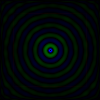
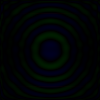
verified M,J,L,N on cartesian, spherical TODO : use legacy summation check Efar formula (signs?)

diff --git a/excFDTD/excFDTD.c b/excFDTD/excFDTD.c
@@ -524,17 +524,15 @@ void NTFF(void) {
 	
 	int surf_x, surf_y, surf_z;
 	float k_vector;
-	float *NF_eyePos, *xyz_to_sph, *Hankel_rho_inv_dx, *FF_ecSr_magnitude;
+	float *NF_eyePos, *xyz_to_sph,  *FF_ecSr_magnitude;
 	MKL_Complex8 *Hankel_dx, *NF_ecE, *NF_H, *NF_ecM, *NF_J, *normal, *NF_ecM_sph, *NF_J_sph,
 		*NF_ecL_sph_dx, *NF_N_sph_dx, *NF_ecM_temp, *NF_J_temp,
 		*FF_ecE_theta, *FF_ecE_phi, *FF_H_theta, *FF_H_phi, *FF_ecSr1, *FF_ecSr2, *FF_ecSr;
 	MKL_Complex8 *NF_ecL_sum, *NF_N_sum; //[0]:r [1]:theta [2]:phi
-	//MKL_Complex8 *NF_111_X_ecE, *NF_111_X_H;
-	//THIS IS WRONG
 
 	NF_eyePos = (float*)malloc(NTFF_IMG_SIZE*NTFF_IMG_SIZE * 3 * sizeof(float));
 	xyz_to_sph = (float*)malloc(_SURF_SIZE_ * 9 * sizeof(float));
-	Hankel_rho_inv_dx = (float*)mkl_malloc(_SURF_SIZE_ * sizeof(float), 64);
+	//rho_inv_dx = (float*)mkl_malloc(_SURF_SIZE_ * sizeof(float), 64);
 	Hankel_dx = (MKL_Complex8*)mkl_malloc(_SURF_SIZE_ * sizeof(MKL_Complex8), 64);
 	NF_ecE = (MKL_Complex8*)mkl_malloc(3 * _SURF_SIZE_ * sizeof(MKL_Complex8), 64);
 	NF_H = (MKL_Complex8*)mkl_malloc(3 * _SURF_SIZE_ * sizeof(MKL_Complex8), 64);
@@ -572,7 +570,7 @@ void NTFF(void) {
 				NF_eyePos[1 * NTFF_IMG_SIZE *NTFF_IMG_SIZE + j*NTFF_IMG_SIZE + i] = 1.0f;
 				NF_eyePos[2 * NTFF_IMG_SIZE *NTFF_IMG_SIZE + j*NTFF_IMG_SIZE + i] = 1.0f;
 				continue; }
-			float NF_phi = (radius - rr) * 0.5 * M_PI / radius;
+			float NF_phi = (radius - rr) * 0.5f * M_PI / radius;
 			NF_eyePos[0 * NTFF_IMG_SIZE *NTFF_IMG_SIZE + j*NTFF_IMG_SIZE + i] = cosf(NF_phi) * xx / rr;
 			NF_eyePos[1 * NTFF_IMG_SIZE *NTFF_IMG_SIZE + j*NTFF_IMG_SIZE + i] = cosf(NF_phi) * yy / rr;    
 			NF_eyePos[2 * NTFF_IMG_SIZE *NTFF_IMG_SIZE + j*NTFF_IMG_SIZE + i] = sinf(NF_phi);
@@ -583,30 +581,25 @@ void NTFF(void) {
 	// precalculation per pixel
 	for (int k = 0; k < _SURF_SIZE_; k++) {
 		_SET_SURF_XYZ_INDEX(k);
-		Hankel_rho_inv_dx[k] = 1.0f / sqrtf(
+		float rho_inv_dx = 1.0f / sqrtf(
 			(float)(surf_x - _SURF_MidX_) * (float)(surf_x - _SURF_MidX_)
 			+ (float)(surf_y - _SURF_MidY_) * (float)(surf_y - _SURF_MidY_)
 			+ (float)(surf_z - _SURF_MidZ_) * (float)(surf_z - _SURF_MidZ_)); //shouldn't slow down much
-	}
-
-	for (int k = 0; k < _SURF_SIZE_; k++) {
-		_SET_SURF_XYZ_INDEX(k);
 		float radial_inv = 1.0f / sqrtf((surf_x - _SURF_MidX_)*(surf_x - _SURF_MidX_) + (surf_y - _SURF_MidY_)*(surf_y - _SURF_MidY_));
-//		if (((surf_x - _SURF_MidX_)*(surf_x - _SURF_MidX_) + (surf_y - _SURF_MidY_)*(surf_y - _SURF_MidY_)) == 1) {
 		if (((surf_x - _SURF_MidX_)*(surf_x - _SURF_MidX_) + (surf_y - _SURF_MidY_)*(surf_y - _SURF_MidY_)) == 0) {
 			for (int kk = 0; kk < 9; kk++) { xyz_to_sph[9 * k + kk] = 0; }
 			xyz_to_sph[9 * k + 2] = 1;
 			continue;
 		}
-		xyz_to_sph[9*k + 0] = Hankel_rho_inv_dx[k] * (float)(surf_x - _SURF_MidX_);
-		xyz_to_sph[9*k + 1] = Hankel_rho_inv_dx[k] * (float)(surf_y - _SURF_MidY_);
-		xyz_to_sph[9*k + 2] = Hankel_rho_inv_dx[k] * (float)(surf_z - _SURF_MidZ_);
+		xyz_to_sph[9*k + 0] = rho_inv_dx * (float)(surf_x - _SURF_MidX_);
+		xyz_to_sph[9*k + 1] = rho_inv_dx * (float)(surf_y - _SURF_MidY_);
+		xyz_to_sph[9*k + 2] = rho_inv_dx * (float)(surf_z - _SURF_MidZ_);
 		xyz_to_sph[9*k + 3] = -(float)(surf_y - _SURF_MidY_) * radial_inv;
 		xyz_to_sph[9*k + 4] = (float)(surf_x - _SURF_MidX_) * radial_inv;
 		xyz_to_sph[9*k + 5] = 0;
-		xyz_to_sph[9*k + 6] = -Hankel_rho_inv_dx[k] * radial_inv * (float)(surf_z - _SURF_MidZ_) * (float)(surf_x - _SURF_MidX_);
-		xyz_to_sph[9*k + 7] = -Hankel_rho_inv_dx[k] * radial_inv * (float)(surf_z - _SURF_MidZ_) * (float)(surf_y - _SURF_MidY_);
-		xyz_to_sph[9*k + 8] = Hankel_rho_inv_dx[k] / radial_inv;
+		xyz_to_sph[9*k + 6] = -rho_inv_dx * radial_inv * (float)(surf_z - _SURF_MidZ_) * (float)(surf_x - _SURF_MidX_);
+		xyz_to_sph[9*k + 7] = -rho_inv_dx * radial_inv * (float)(surf_z - _SURF_MidZ_) * (float)(surf_y - _SURF_MidY_);
+		xyz_to_sph[9*k + 8] = rho_inv_dx / radial_inv;
 	}
 
 
@@ -700,9 +693,8 @@ void NTFF(void) {
 					+ xyz_to_sph[9 * k + 3 * i + 2] * NF_J[2 * _SURF_SIZE_ + k].imag;
 			}
 		}
-		//debug
-		//for (int i = 0; i < 2; i++) {
-		//	for (int j = 0; j < NTFF_IMG_SIZE; j++) {
+
+		printf("\n");
 		for (int i = 0; i < NTFF_IMG_SIZE; i++) {
 			printf("%f%%\r", 100.0f*(float)i / NTFF_IMG_SIZE);
 			for (int j = 0; j < NTFF_IMG_SIZE; j++) {
@@ -716,43 +708,51 @@ void NTFF(void) {
 					////Hankel calc, FIXME : Need to verify this part
 					Hankel_dx[k].real = 0;
 					Hankel_dx[k].imag = k_vector * _dx *(
-						((float)(surf_x - _SURF_MidX_))*(NF_eyePos[0 * NTFF_IMG_SIZE *NTFF_IMG_SIZE + j*NTFF_IMG_SIZE + i])
-						+ ((float)(surf_y - _SURF_MidY_))*(NF_eyePos[1 * NTFF_IMG_SIZE *NTFF_IMG_SIZE + j*NTFF_IMG_SIZE + i])
-						+ ((float)(surf_z - _SURF_MidZ_))*(NF_eyePos[2 * NTFF_IMG_SIZE *NTFF_IMG_SIZE + j*NTFF_IMG_SIZE + i])
-						); //constant phase difference could be ignored. could be accererated more					
+						  ((float)surf_x - (_SURF_MidX_))*(NF_eyePos[0 * NTFF_IMG_SIZE *NTFF_IMG_SIZE + j*NTFF_IMG_SIZE + i])
+						+ ((float)surf_y - (_SURF_MidY_))*(NF_eyePos[1 * NTFF_IMG_SIZE *NTFF_IMG_SIZE + j*NTFF_IMG_SIZE + i])
+						+ ((float)surf_z - (_SURF_MidZ_))*(NF_eyePos[2 * NTFF_IMG_SIZE *NTFF_IMG_SIZE + j*NTFF_IMG_SIZE + i])
+						); //constant phase difference was ignored. could be accererated more					
 				}
 				vcExp(_SURF_SIZE_, Hankel_dx, Hankel_dx); //complex exp
-				ippsMul_32f32fc_I(Hankel_rho_inv_dx, Hankel_dx, _SURF_SIZE_);
+				//ippsMul_32f32fc_I(Hankel_rho_inv_dx, Hankel_dx, _SURF_SIZE_); //wrong
 
 				////L N clac : we don't need Lr, Nr but anyway
 				for (int ii = 0; ii < 3; ii++) { // R theta phi
 					vcMul(_SURF_SIZE_, Hankel_dx, NF_ecM_sph + ii * _SURF_SIZE_, NF_ecL_sph_dx + ii * _SURF_SIZE_);
 					vcMul(_SURF_SIZE_, Hankel_dx, NF_J_sph + ii * _SURF_SIZE_, NF_N_sph_dx + ii * _SURF_SIZE_);
 
-					ippsSum_32fc(NF_ecL_sph_dx + ii * _SURF_SIZE_, _SURF_SIZE_, NF_ecL_sum + ii, IPP_FFT_NODIV_BY_ANY); //FIXME : IPP_FFT_DIV_BY_SQRTN?
-					ippsSum_32fc(NF_N_sph_dx + ii * _SURF_SIZE_, _SURF_SIZE_, NF_N_sum + ii, IPP_FFT_NODIV_BY_ANY);
+					ippsSum_32fc(NF_ecL_sph_dx + ii * _SURF_SIZE_, _SURF_SIZE_, NF_ecL_sum + ii, IPP_FFT_DIV_BY_SQRTN); //FIXME : IPP_FFT_NODIV_BY_ANY?
+					ippsSum_32fc(NF_N_sph_dx + ii * _SURF_SIZE_, _SURF_SIZE_, NF_N_sum + ii, IPP_FFT_DIV_BY_SQRTN);
 
 					//FIXME : image center NaN
 					if (isfinite(NF_ecL_sum[ii].real) == 0) { printf("Ea : %d,%d\n", i, j); }
 					if (isfinite(NF_ecL_sum[ii].imag) == 0) { printf("Eb : %d,%d\n", i, j); }
 					if (isfinite(NF_N_sum[ii].real) == 0) { printf("Ec : %d,%d\n", i, j); }
 					if (isfinite(NF_N_sum[ii].imag) == 0) { printf("Ed : %d,%d\n", i, j); }
-				}//could use in in_place functions, such as ippsMul_32fc_I
+				}
 
 				//ch14, (14.54)  (double check signs of M and J!)
-				//[0]:r [1]:theta [2]:phi
-				ippsAdd_32fc(NF_N_sum + 1, NF_ecL_sum + 2, FF_ecE_theta + j + i*NTFF_IMG_SIZE, 1);
-				ippsSub_32fc(NF_ecL_sum + 1, NF_N_sum + 2, FF_ecE_phi + j + i*NTFF_IMG_SIZE, 1); 
-				ippsSub_32fc(NF_N_sum + 2, NF_ecL_sum + 1, FF_H_theta + j + i*NTFF_IMG_SIZE, 1);
-				ippsAdd_32fc(NF_ecL_sum + 2, NF_N_sum + 1, FF_H_phi + j + i*NTFF_IMG_SIZE, 1); 
+				////[0]:r [1]:theta [2]:phi
+				//ippsAdd_32fc(NF_N_sum + 1, NF_ecL_sum + 2, FF_ecE_theta + i + j*NTFF_IMG_SIZE, 1);
+				//ippsSub_32fc(NF_ecL_sum + 1, NF_N_sum + 2, FF_ecE_phi + i + j*NTFF_IMG_SIZE, 1); 
+				//ippsSub_32fc(NF_N_sum + 2, NF_ecL_sum + 1, FF_H_theta + i + j*NTFF_IMG_SIZE, 1);
+				//ippsAdd_32fc(NF_ecL_sum + 2, NF_N_sum + 1, FF_H_phi + i + j*NTFF_IMG_SIZE, 1); 
+
+				FF_ecE_theta[i + j*NTFF_IMG_SIZE].real = NF_N_sum[1].real +NF_ecL_sum[2].real;
+				FF_ecE_phi[i + j*NTFF_IMG_SIZE].real = NF_N_sum[2].real - NF_ecL_sum[1].real;
+				FF_H_theta[i + j*NTFF_IMG_SIZE].real = NF_ecL_sum[1].real - NF_N_sum[2].real;
+				FF_H_phi[i + j*NTFF_IMG_SIZE].real = NF_ecL_sum[2].real + NF_N_sum[1].real;
+				FF_ecE_theta[i + j*NTFF_IMG_SIZE].imag = NF_N_sum[1].imag +NF_ecL_sum[2].imag;
+				FF_ecE_phi[i + j*NTFF_IMG_SIZE].imag = NF_N_sum[2].imag - NF_ecL_sum[1].imag;
+				FF_H_theta[i + j*NTFF_IMG_SIZE].imag = NF_ecL_sum[1].imag - NF_N_sum[2].imag;
+				FF_H_phi[i + j*NTFF_IMG_SIZE].imag = NF_ecL_sum[2].imag + NF_N_sum[1].imag;
 			}
 		}
-		if (1 == 0){
 		ippsMulC_32fc_I((Ipp32fc) { sqrtf(0.125f / M_PI * k_vector), 0.0f }, FF_ecE_theta, NTFF_IMG_SIZE*NTFF_IMG_SIZE);
 		ippsMulC_32fc_I((Ipp32fc) { sqrtf(0.125f / M_PI * k_vector), 0.0f }, FF_ecE_phi, NTFF_IMG_SIZE*NTFF_IMG_SIZE);
 		ippsMulC_32fc_I((Ipp32fc) { sqrtf(0.125f / M_PI * k_vector), 0.0f }, FF_H_theta, NTFF_IMG_SIZE*NTFF_IMG_SIZE);
 		ippsMulC_32fc_I((Ipp32fc) { sqrtf(0.125f / M_PI * k_vector), 0.0f }, FF_H_phi, NTFF_IMG_SIZE*NTFF_IMG_SIZE);
-		}
+
 		ippsMul_32fc(FF_ecE_theta, FF_H_phi, FF_ecSr1, NTFF_IMG_SIZE*NTFF_IMG_SIZE);
 		ippsMul_32fc(FF_ecE_phi, FF_H_theta, FF_ecSr2, NTFF_IMG_SIZE*NTFF_IMG_SIZE);
 		//ippsAdd_32fc(FF_ecSr1, FF_ecSr2, FF_ecSr, NTFF_IMG_SIZE*NTFF_IMG_SIZE); // FIXME : check sign : add? sub?
@@ -764,35 +764,60 @@ void NTFF(void) {
 		//debug
 		filename[3] = 'a';
 		for (int i = 0; i < NTFF_IMG_SIZE; i++)	{		for (int j = 0; j < NTFF_IMG_SIZE; j++) {
-			//float val = NF_eyePos[1 * NTFF_IMG_SIZE *NTFF_IMG_SIZE + i*NTFF_IMG_SIZE + j] * 255;
-			//float val = FF_ecE_theta[i*NTFF_IMG_SIZE + j].real * 255.0f * 10.0f;
-			//float val = FF_H_theta[i*NTFF_IMG_SIZE + j].real *255.0f * 10.0f;
-			//float val = FF_ecE_phi[i*NTFF_IMG_SIZE + j].real * 255.0f * 10.0f;
-			//float val = FF_H_phi[i*NTFF_IMG_SIZE + j].real * 255.0f * 10.0f;  
-			//float val = FF_ecSr[i*NTFF_IMG_SIZE + j].real * 255.0f * 500.0f;
-			float val = FF_ecSr_magnitude[i*NTFF_IMG_SIZE + j] * 255.0f * 500.0f;
+			//float val = NF_eyePos[2 * NTFF_IMG_SIZE *NTFF_IMG_SIZE + j*NTFF_IMG_SIZE + i] * 255;
+			float val = sqrtf(FF_ecE_theta[j*NTFF_IMG_SIZE + i].real *  FF_ecE_theta[j*NTFF_IMG_SIZE + i].real +  FF_ecE_theta[j*NTFF_IMG_SIZE + i].imag *  FF_ecE_theta[j*NTFF_IMG_SIZE + i].imag) * 255.0f / 1000.0f;
+			//float val = sqrtf(FF_ecE_phi[j*NTFF_IMG_SIZE + i].real * FF_ecE_phi[j*NTFF_IMG_SIZE + i].real + FF_ecE_phi[j*NTFF_IMG_SIZE + i].imag * FF_ecE_phi[j*NTFF_IMG_SIZE + i].imag) * 255.0f / 2.0f;
+			//float val = FF_H_theta[j*NTFF_IMG_SIZE + i].real *255.0f * 500.0f;
+			//float val = FF_H_phi[j*NTFF_IMG_SIZE + i].real * 255.0f * 10.0f;  
+			//float val = FF_ecSr[j*NTFF_IMG_SIZE + i].real * 255.0f * 500.0f;
+			//float val = FF_ecSr1[j*NTFF_IMG_SIZE + i].real * 255.0f * 500.0f * 500.0f;
+			//float val = FF_ecSr2[j*NTFF_IMG_SIZE + i].real * 255.0f * 500.0f * 500.0f;
+			//float val = FF_ecSr_magnitude[j*NTFF_IMG_SIZE + i] * 255.0f * 500.0f;
 			
-				image[4 * NTFF_IMG_SIZE * j + 4 * i + 0] = val>0?val:0 ;
-				image[4 * NTFF_IMG_SIZE * j + 4 * i + 1] = val<0?-val:0 ;
+				image[4 * NTFF_IMG_SIZE * j + 4 * i + 0] = val>0?(val<255?val:255):0 ;
+				image[4 * NTFF_IMG_SIZE * j + 4 * i + 1] = val<0?(val>-255?-val:255):0 ;
 				image[4 * NTFF_IMG_SIZE * j + 4 * i + 2] = 0;
 				image[4 * NTFF_IMG_SIZE * j + 4 * i + 3] = 255;
-				printf("%1.2e\t", val);
+				//printf("%1.2e\t", val);
 		}
-		printf("\n");
+		//printf("\n");
 		}
 		error = lodepng_encode32_file(filename, image, NTFF_IMG_SIZE, NTFF_IMG_SIZE);
-		if (error) printf("error %u: %s\n", error, lodepng_error_text(error));;
+		if (error) printf("error %u: %s\n", error, lodepng_error_text(error));
+
+
+		for (int i = 0; i < NTFF_IMG_SIZE; i++) {		for (int j = 0; j < NTFF_IMG_SIZE; j++) {
+			float val = sqrtf(FF_ecE_theta[j*NTFF_IMG_SIZE + i].real *  FF_ecE_theta[j*NTFF_IMG_SIZE + i].real + FF_ecE_theta[j*NTFF_IMG_SIZE + i].imag *  FF_ecE_theta[j*NTFF_IMG_SIZE + i].imag) * 255.0f / 1000.0f;
+			image[4 * NTFF_IMG_SIZE * j + 4 * i + 0] = val > 0 ? (val < 255 ? val : 255) : 0;		image[4 * NTFF_IMG_SIZE * j + 4 * i + 1] = val < 0 ? (val > -255 ? -val : 255) : 0;		image[4 * NTFF_IMG_SIZE * j + 4 * i + 2] = 0;  image[4 * NTFF_IMG_SIZE * j + 4 * i + 3] = 255;
+		}}error = lodepng_encode32_file("E_theta.png", image, NTFF_IMG_SIZE, NTFF_IMG_SIZE);
+		for (int i = 0; i < NTFF_IMG_SIZE; i++) {		for (int j = 0; j < NTFF_IMG_SIZE; j++) {
+			float val = sqrtf(FF_ecE_phi[j*NTFF_IMG_SIZE + i].real * FF_ecE_phi[j*NTFF_IMG_SIZE + i].real + FF_ecE_phi[j*NTFF_IMG_SIZE + i].imag * FF_ecE_phi[j*NTFF_IMG_SIZE + i].imag) * 255.0f / 1000.0f;
+			image[4 * NTFF_IMG_SIZE * j + 4 * i + 0] = val > 0 ? (val < 255 ? val : 255) : 0;		image[4 * NTFF_IMG_SIZE * j + 4 * i + 1] = val < 0 ? (val > -255 ? -val : 255) : 0;		image[4 * NTFF_IMG_SIZE * j + 4 * i + 2] = 0;  image[4 * NTFF_IMG_SIZE * j + 4 * i + 3] = 255;
+		}}error = lodepng_encode32_file("E_phi.png", image, NTFF_IMG_SIZE, NTFF_IMG_SIZE);
+		for (int i = 0; i < NTFF_IMG_SIZE; i++) {		for (int j = 0; j < NTFF_IMG_SIZE; j++) {
+			float val = 
+				sqrtf(FF_ecE_theta[j*NTFF_IMG_SIZE + i].real *  FF_ecE_theta[j*NTFF_IMG_SIZE + i].real + FF_ecE_theta[j*NTFF_IMG_SIZE + i].imag *  FF_ecE_theta[j*NTFF_IMG_SIZE + i].imag) * 255.0f / 1000.0f
+			+sqrtf(FF_ecE_phi[j*NTFF_IMG_SIZE + i].real * FF_ecE_phi[j*NTFF_IMG_SIZE + i].real + FF_ecE_phi[j*NTFF_IMG_SIZE + i].imag * FF_ecE_phi[j*NTFF_IMG_SIZE + i].imag) * 255.0f / 1000.0f;
+			image[4 * NTFF_IMG_SIZE * j + 4 * i + 0] = val > 0 ? (val < 255 ? val : 255) : 0;		image[4 * NTFF_IMG_SIZE * j + 4 * i + 1] = val < 0 ? (val > -255 ? -val : 255) : 0;		image[4 * NTFF_IMG_SIZE * j + 4 * i + 2] = 0;  image[4 * NTFF_IMG_SIZE * j + 4 * i + 3] = 255;
+		}}error = lodepng_encode32_file("E.png", image, NTFF_IMG_SIZE, NTFF_IMG_SIZE);
 
 
 		unsigned char* image2 = malloc(_SURF_DX_ * _SURF_DY_ * 4);
 		filename[3] = 'b';
 		for (int j = 0; j < _SURF_DY_ ; j++)	{
 			for (int i = 0; i < _SURF_DX_ ; i++) {
-				//float val = Hankel_rho_inv[_SURF_INDEX_XYZ(_SURF_StartX_+ i, _SURF_StartY_+j, _SURF_StartZ_)] *255.0f * 5.0f ;
+				////float val = rho_inv_dx[_SURF_INDEX_XYZ(_SURF_StartX_ + i, _SURF_StartY_ + j, _SURF_StartZ_)] *255.0f * 20.0f;
 				//float val = normal[_SURF_SIZE_ * 1 + _SURF_INDEX_XYZ(_SURF_StartX_+ i, _SURF_StartY_+j, _SURF_StartZ_)].real *255.0f * 5.0f ;
-				//float val = NF_ecM[(0 * _SURF_SIZE_) + _SURF_INDEX_XYZ(_SURF_StartX_ + i, _SURF_StartY_ + j, _SURF_StartZ_)].real *255.0f * 5000.0f;
-				//float val = Hankel[_SURF_INDEX_XYZ(_SURF_StartX_ + i, _SURF_StartY_ + j, _SURF_StartZ_)].real *255.0f * 5e-7;
-				//float val = NF_ecM_sph[(0 * _SURF_SIZE_) + _SURF_INDEX_XYZ(_SURF_StartX_ + i, _SURF_StartY_ + j, _SURF_StartZ_)].imag *255.0f * 500.0f;
+				//float val = NF_ecM[(1 * _SURF_SIZE_) + _SURF_INDEX_XYZ(_SURF_StartX_ + i, _SURF_StartY_ + j, _SURF_StartZ_)].real *255.0f * 10000.0f;
+				//float val = NF_J[(0 * _SURF_SIZE_) + _SURF_INDEX_XYZ(_SURF_StartX_ + i, _SURF_StartY_ + j, _SURF_StartZ_)].real *255.0f * 10000.0f;
+				//float val = Hankel_dx[_SURF_INDEX_XYZ(_SURF_StartX_ + i, _SURF_StartY_ + j, _SURF_StartZ_)].real *255.0f;
+				//float val = sqrt(
+				//	NF_J_sph[(1 * _SURF_SIZE_) + _SURF_INDEX_XYZ(_SURF_StartX_ + i, _SURF_StartY_ + j, _SURF_StartZ_)].imag *
+				//	NF_J_sph[(1 * _SURF_SIZE_) + _SURF_INDEX_XYZ(_SURF_StartX_ + i, _SURF_StartY_ + j, _SURF_StartZ_)].imag+
+				//	NF_J_sph[(1 * _SURF_SIZE_) + _SURF_INDEX_XYZ(_SURF_StartX_ + i, _SURF_StartY_ + j, _SURF_StartZ_)].real *
+				//	NF_J_sph[(1 * _SURF_SIZE_) + _SURF_INDEX_XYZ(_SURF_StartX_ + i, _SURF_StartY_ + j, _SURF_StartZ_)].real
+				//	)*255.0f * 500.0f;
+				float val =  NF_ecL_sph_dx[(1 * _SURF_SIZE_) + _SURF_INDEX_XYZ(_SURF_StartX_ + i, _SURF_StartY_ + j, _SURF_StartZ_)].real*255.0f * 500.0f;
 				//float val = NF_ecM_sph[(1 * _SURF_SIZE_) + _SURF_INDEX_XYZ(_SURF_StartX_ + i, _SURF_StartY_ + j, _SURF_StartZ_)].imag *255.0f * 500.0f;
 				//float val = NF_ecM_sph[(2 * _SURF_SIZE_) + _SURF_INDEX_XYZ(_SURF_StartX_ + i, _SURF_StartY_ + j, _SURF_StartZ_)].real *255.0f * 500.0f;
 				//float val = NF_J_sph[(0 * _SURF_SIZE_) + _SURF_INDEX_XYZ(_SURF_StartX_ + i, _SURF_StartY_ + j, _SURF_StartZ_)].real *255.0f * 500.0f;
@@ -803,16 +828,16 @@ void NTFF(void) {
 				//float val = NF_ecL_sph_dx[(0 * _SURF_SIZE_) + _SURF_INDEX_XYZ(_SURF_StartX_ + i, _SURF_StartY_ + j, _SURF_StartZ_)].real *255.0f * 5000.0f;
 				//float val = NF_N_sph_dx[(0 * _SURF_SIZE_) + _SURF_INDEX_XYZ(_SURF_StartX_ + i, _SURF_StartY_ + j, _SURF_StartZ_)].real *255.0f * 5000.0f;
 				//float val = NF_N_sph_dx[(1 * _SURF_SIZE_) + _SURF_INDEX_XYZ(_SURF_StartX_ + i, _SURF_StartY_ + j, _SURF_StartZ_)].real *255.0f * 5000.0f;
-				float val = NF_N_sph_dx[(2 * _SURF_SIZE_) + _SURF_INDEX_XYZ(_SURF_StartX_ + i, _SURF_StartY_ + j, _SURF_StartZ_)].real *255.0f * 5000.0f;
+				//float val = NF_N_sph_dx[(2 * _SURF_SIZE_) + _SURF_INDEX_XYZ(_SURF_StartX_ + i, _SURF_StartY_ + j, _SURF_StartZ_)].real *255.0f * 5000.0f;
 
 				image2[4 * _SURF_DX_ * j + 4 * i + 0] = val>0 ? val : 0;
 				image2[4 * _SURF_DX_ * j + 4 * i + 1] = val<0 ? -val : 0;
 				image2[4 * _SURF_DX_ * j + 4 * i + 2] = 0;
 				image2[4 * _SURF_DX_ * j + 4 * i + 3] = 255;
 
-				//printf("%1.2e ", val);
+				printf("%1.2e ", val);
 			}
-			//printf("\n");
+			printf("\n");
 		}
 		error = lodepng_encode32_file(filename, image2, _SURF_DX_ , _SURF_DY_);
 		if (error) printf("error %u: %s\n", error, lodepng_error_text(error));;
@@ -856,7 +881,8 @@ void NTFF(void) {
 
 	//FIXME
 	free(NF_eyePos); 	free(xyz_to_sph);
-	mkl_free(Hankel_rho_inv_dx); mkl_free(Hankel_dx);
+	//mkl_free(rho_inv_dx);
+	mkl_free(Hankel_dx);
 	mkl_free(NF_ecE); mkl_free(NF_H); mkl_free(NF_ecM); mkl_free(NF_J); mkl_free(NF_ecM_sph); mkl_free(NF_J_sph); mkl_free(NF_ecL_sph_dx); mkl_free(NF_N_sph_dx); mkl_free(normal);
 	mkl_free(FF_ecE_theta); mkl_free(FF_ecE_phi); mkl_free(FF_H_theta); mkl_free(FF_H_phi); mkl_free(NF_ecL_sum); mkl_free(NF_N_sum); mkl_free(FF_ecSr1); mkl_free(FF_ecSr2); mkl_free(FF_ecSr); mkl_free(FF_ecSr_magnitude);
 	free(image);
@@ -1192,17 +1218,19 @@ int snapshot(void)
 	fclose(f);
 
 
+	printf("snapshot : Z=70\n");
+	int Z = 70;
 	const char* filename = "test.png";
 	unsigned width = _DimX, height = _DimY;
 	unsigned char* image = malloc(width * height * 4);
-	unsigned y, z;
-	for (z = 0; z < height; z++)
+	unsigned y, x;
+	for (x = 0; x < height; x++)
 		for (y = 0; y < width; y++)
 		{
 			int surf_x, surf_y, surf_z;
-			int surf_index = _SURF_INDEX_XYZ(X, y, z);
+			int surf_index = _SURF_INDEX_XYZ(x, y, Z);
 			_SET_SURF_XYZ_INDEX(surf_index);
-			int offset = _INDEX_XYZ(X, y, z);
+			int offset = _INDEX_XYZ(x, y, Z);
 			int value =0;
 
 			//if (surf_index !=-1) value = (FT_eps0cE[_SURF_INDEX_XYZ(X, y, z)][1][0][0]* FT_eps0cE[_SURF_INDEX_XYZ(X, y, z)][1][0][0]+ FT_eps0cE[_SURF_INDEX_XYZ(X, y, z)][1][0][1]* FT_eps0cE[_SURF_INDEX_XYZ(X, y, z)][1][0][1]) * 255.0f * 5000.0f * 5000.0f;
@@ -1220,10 +1248,10 @@ int snapshot(void)
 			int val2 = (eps0_c_Ex[offset]) * 255.0f * 50.0f;
 			val2 = val2 > 255 ? 255 : val2;
 			val2 = val2 < -255 ? -255 : val2;
-			image[4 * width * z + 4 * y + 0] = (unsigned char)(value>0? value : 0);
-			image[4 * width * z + 4 * y + 1] = (unsigned char)(val2<0 ? -val2 : 0);
-			image[4 * width * z + 4 * y + 2] = (unsigned char)(val2>0 ? val2 : 0);
-			image[4 * width * z + 4 * y + 3] = 255;
+			image[4 * width * y + 4 * x + 0] = (unsigned char)(value>0? value : 0);
+			image[4 * width * y + 4 * x + 1] = (unsigned char)(val2<0 ? -val2 : 0);
+			image[4 * width * y + 4 * x + 2] = (unsigned char)(val2>0 ? val2 : 0);
+			image[4 * width * y + 4 * x + 3] = 255;
 		}
 	unsigned error = lodepng_encode32_file(filename, image, width, height);
 	if (error) printf("error %u: %s\n", error, lodepng_error_text(error));
